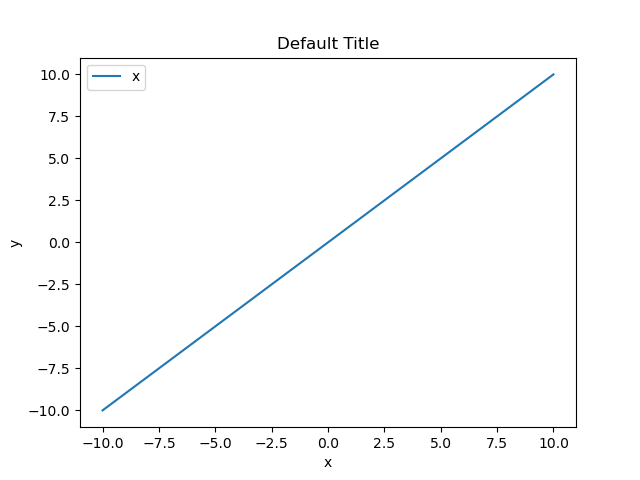
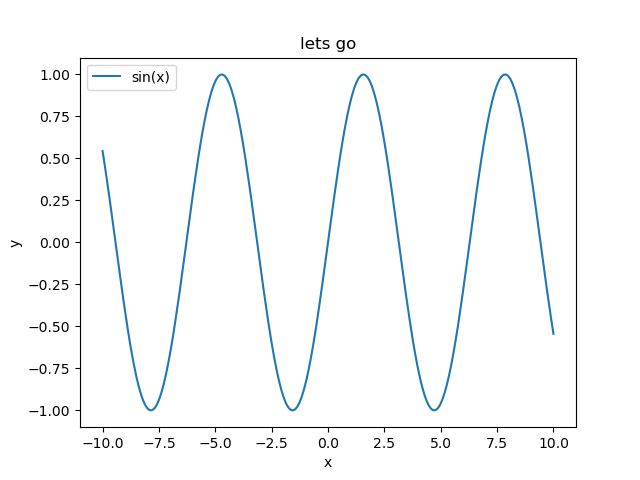
got the first protoype of the website working by changing to get

diff --git a/testapp/src/Controller/HomeController.php b/testapp/src/Controller/HomeController.php
@@ -3,15 +3,28 @@ namespace App\Controller;
 use Symfony\Component\HttpFoundation\Response;
 use Symfony\Component\Routing\Annotation\Route;
 use Symfony\Bundle\FrameworkBundle\Controller\AbstractController;
+use Symfony\Component\HttpFoundation\Request;
+
 
 
 class HomeController extends AbstractController
 {
-    #[Route('/', name: 'home')] 
-    public function renderHomePage(): Response
+    #[Route('/', name: 'home', methods: ['GET', 'POST'])] 
+    public function renderHomePage(Request $request): Response
     {
+
+        $imageEndpoint = $this->generateUrl('retrieve_plot');
+        if ($request->isMethod('POST')) {
+            $function = $request->request->get('function', 'x'); 
+            $title = $request->request->get('title', 'title'); 
+
+            $imageEndpoint = $this->generateUrl('retrieve_plot', [
+                'function' => $function,
+                'title' => $title,
+            ]);
+        }
         return $this->render('home_page.html.twig', [
-            'imageEndpoint' => $this->generateUrl('retrieve_plot'), 
+            'imageEndpoint' => $imageEndpoint, 
         ]);
     }
 }

diff --git a/testapp/src/Controller/ImageController.php b/testapp/src/Controller/ImageController.php
@@ -6,17 +6,24 @@ use Symfony\Component\HttpFoundation\Response;
 use Symfony\Component\Routing\Annotation\Route;
 use Symfony\Bundle\FrameworkBundle\Controller\AbstractController;
 use Psr\Log\LoggerInterface;
+use Symfony\Component\HttpFoundation\Request;
+
 
 class ImageController extends AbstractController
 {
     #[Route('/retrieve_plot', name: 'retrieve_plot')]
-    public function displayPlot(PythonApiClient $pythonApiClient, LoggerInterface $logger, Array $payload = ['function' => 'x', 'title' => 'Default Title']): Response
+    public function displayPlot(PythonApiClient $pythonApiClient, LoggerInterface $logger, Request $request): Response
     {
         try {
             $logger->info("sending post request to api");
 
             $endpoint = '/plot';
-
+            $function = $request->query->get('function', 'x'); 
+            $title = $request->query->get('title', 'Default Title');
+            $payload = [
+                'function' => $function,
+                'title' => $title,
+            ];
 
             $imageData = $pythonApiClient->post($endpoint, $payload);
 
